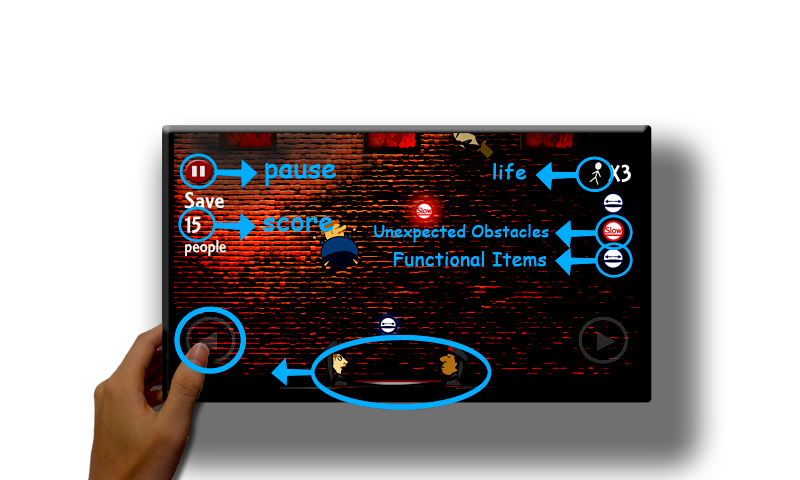
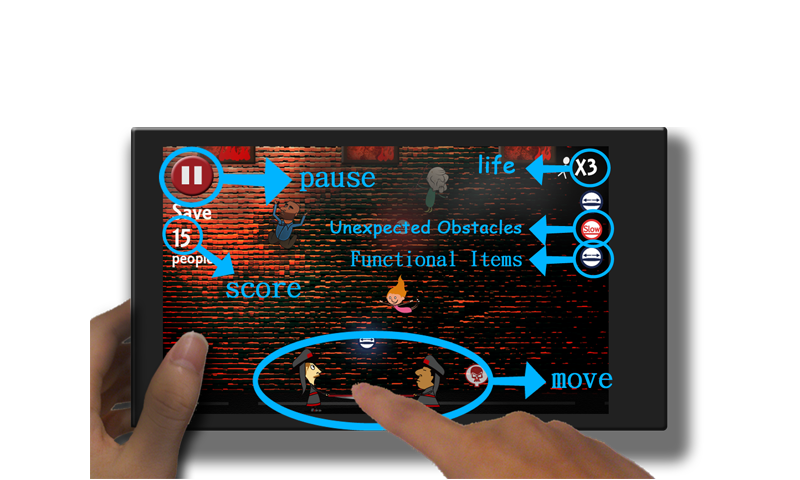
12-24 HowToPlay更換圖片(完)
12-24 HowToPlay更換圖片(完)

diff --git a/WP-CatcherGame-XNA-XAML/WP-CatcherGame-XNA-XAML/GameStates/Dialog/HowToPlayDialog.cs b/WP-CatcherGame-XNA-XAML/WP-CatcherGame-XNA-XAML/GameStates/Dialog/HowToPlayDialog.cs
@@ -19,7 +19,7 @@ namespace CatcherGame.GameStates.Dialog
         //頁面
         TextureLayer page1Texture;
         TextureLayer page2Texture;
-        TextureLayer page3Texture;
+
 
         int pageStart;
         int pageEnd;
@@ -31,7 +31,7 @@ namespace CatcherGame.GameStates.Dialog
         public override void BeginInit()
         {
             pageStart = 9;
-            pageEnd = 11;
+            pageEnd = 10;
             backgroundPos = new Vector2(0, 0);
             closeButton = new Button(base.currentState, base.countId++, 0,0);
             leftButton = new Button(base.currentState, base.countId++, 0, 0);
@@ -39,14 +39,13 @@ namespace CatcherGame.GameStates.Dialog
 
             page1Texture = new TextureLayer(base.currentState, base.countId++, 0,0);
             page2Texture = new TextureLayer(base.currentState, base.countId++, 0, 0);
-            page3Texture= new TextureLayer(base.currentState, base.countId++, 0, 0);
+
 
             stCurrent = DialogStateEnum.STATE_HOW_TO_PLAY;
             gtCurrent = DialogGameObjectEnum.HOWTOPLAY_PAGE1;
 
             AddgameObject(DialogGameObjectEnum.HOWTOPLAY_PAGE1,new GameObject []{page1Texture,rightButton});
             AddgameObject(DialogGameObjectEnum.HOWTOPLAY_PAGE2, new GameObject[] { page2Texture,leftButton,rightButton });
-            AddgameObject(DialogGameObjectEnum.HOWTOPLAY_PAGE3, new GameObject[] { page3Texture,leftButton });
 
             AddObjectTable(DialogStateEnum.STATE_HOW_TO_PLAY, GetDialogGameObject);
 
@@ -62,7 +61,6 @@ namespace CatcherGame.GameStates.Dialog
             rightButton.LoadResource(TexturesKeyEnum.DIALOG_RIGHT_BUTTON);
             page1Texture.LoadResource(TexturesKeyEnum.HOWTOPLAY_PAGE1);
             page2Texture.LoadResource(TexturesKeyEnum.HOWTOPLAY_PAGE2);
-            page3Texture.LoadResource(TexturesKeyEnum.HOWTOPLAY_PAGE3);
             closeButton.LoadResource(TexturesKeyEnum.DIALOG_CLOSE_BUTTON);
             base.LoadResource();
         }

diff --git a/WP-CatcherGame-XNA-XAML/WP-CatcherGame-XNA-XAML/TextureManager/Texture2DManager.cs b/WP-CatcherGame-XNA-XAML/WP-CatcherGame-XNA-XAML/TextureManager/Texture2DManager.cs
@@ -125,7 +125,6 @@ namespace CatcherGame.TextureManager
             LoadHowToPlayDialogCloseButton();
             LoadHowtoplayDialogPage1();
             LoadHowtoplayDialogPage2();
-            LoadHowtoplayDialogPage3();
 
             Debug.WriteLine("Load Texture2Ds Done ");
         }
@@ -1229,15 +1228,6 @@ namespace CatcherGame.TextureManager
                 _dictionary.Add(key, texture2Ds);
             }
         }
-        private void LoadHowtoplayDialogPage3()
-        {
-            TexturesKeyEnum key = TexturesKeyEnum.HOWTOPLAY_PAGE3;
-            if (!_dictionary.ContainsKey(key))
-            {
-                List<Texture2D> texture2Ds = new List<Texture2D>();
-                texture2Ds.Add(mainGame.GetContentManager.Load<Texture2D>("Dialog/Howtoplay/howtoplay_page3"));
-                _dictionary.Add(key, texture2Ds);
-            }
-        }
+       
     }
 }

diff --git a/WP-CatcherGame-XNA-XAML/WP-CatcherGame-XNA-XAML/TextureManager/TexturesKeyEnum.cs b/WP-CatcherGame-XNA-XAML/WP-CatcherGame-XNA-XAML/TextureManager/TexturesKeyEnum.cs
@@ -127,7 +127,6 @@ namespace CatcherGame.TextureManager
         HOWTOPLAY_BACKGROUND,
         HOWTOPLAY_CLOSE_BUTTON,
         HOWTOPLAY_PAGE1,
-        HOWTOPLAY_PAGE2,
-        HOWTOPLAY_PAGE3
+        HOWTOPLAY_PAGE2
     }
 }

diff --git a/WP-CatcherGame-XNA-XAML/WP-CatcherGame-XNA-XAML/GameStates/Dialog/DialogGameObjectEnum.cs b/WP-CatcherGame-XNA-XAML/WP-CatcherGame-XNA-XAML/GameStates/Dialog/DialogGameObjectEnum.cs
@@ -27,7 +27,6 @@ namespace CatcherGame.GameStates.Dialog
 
         //HOWTOPLAY-----------------------------
         HOWTOPLAY_PAGE1,
-        HOWTOPLAY_PAGE2,
-        HOWTOPLAY_PAGE3
+        HOWTOPLAY_PAGE2
     }
 }
